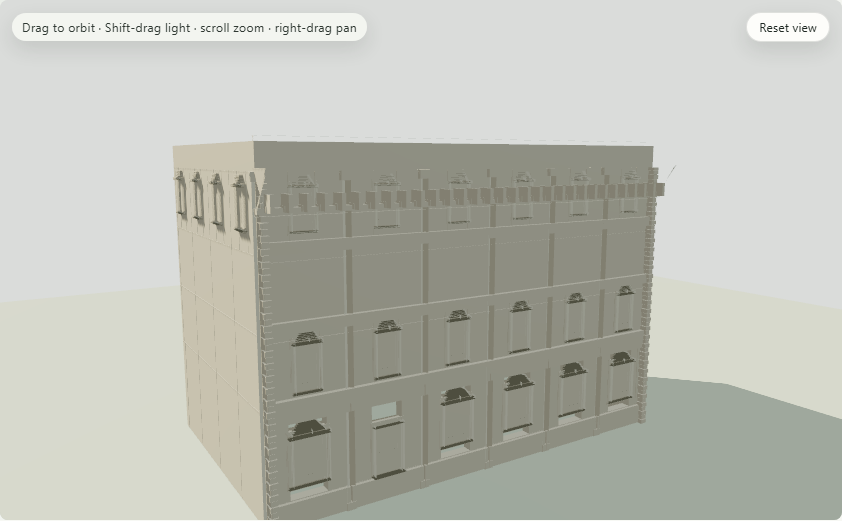
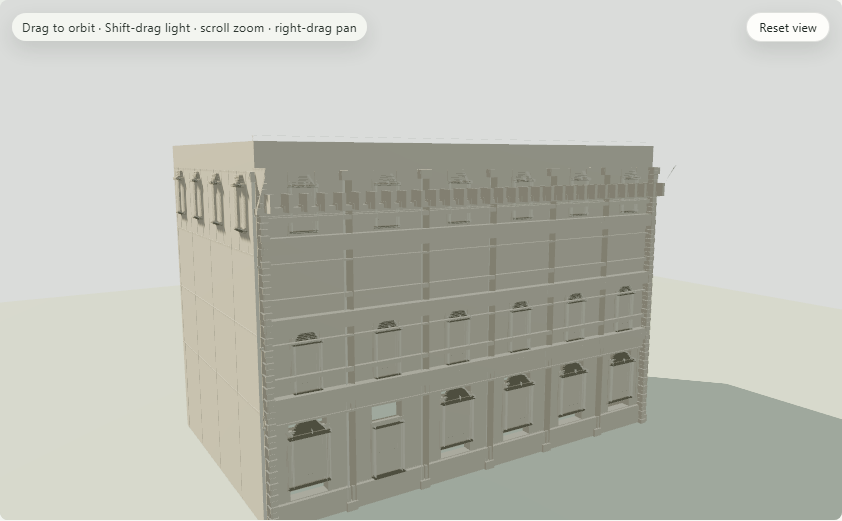
Strengthen mid-facade belts and spandrels for photo-driven V4.
Deepen belt profiles with projection scaling, heavier ground-to-body courses, drip bars, mid-body string courses, and proud spandrel panels so horizontal hierarchy reads as base, body bands, and cornice at default clay camera.

diff --git a/src/features/building-family/compiler/profiledTrimGeometry.ts b/src/features/building-family/compiler/profiledTrimGeometry.ts
@@ -135,29 +135,72 @@ export function buildCorniceProfilePrimitives(
 
 /**
  * Belt courses at each intermediate floor line from authored belt profile.
+ * V4: scaled projection + drip bar so floor lines read as horizontal shadow systems.
  */
 export function buildHorizontalBeltCoursePrimitives(
   spec: BuildingFamilySpec,
   recipe: ComponentRecipe
 ): PrimitiveGeometry[] {
-  const beltHeight = Math.max(0.22, recipe.dimensionsM.height);
+  const beltHeight = Math.max(0.32, recipe.dimensionsM.height);
   const width = recipe.dimensionsM.width;
-  const profile = densifyProfile(scaleProfileToHeight(late19cBeltProfile, beltHeight), 2);
+  const projectionScale = rangeValue(recipe, "projectionScale", 1.35);
+  const profile = densifyProfile(
+    scaleProfileProjection(scaleProfileToHeight(late19cBeltProfile, beltHeight), projectionScale),
+    3
+  );
+  const maxD = Math.max(...profile.points.map((point) => point.d));
   const primitives: PrimitiveGeometry[] = [];
 
   const frontZ = frontFacadeExteriorZM(spec);
   let floorTop = 0;
   for (let floor = 0; floor < spec.massing.floorCount - 1; floor += 1) {
     floorTop += spec.massing.floorHeightsM[floor] ?? 0;
-    const center: Vec3 = [0, floorTop - beltHeight / 2, frontZ];
+    // Ground→body belt is heavier; upper belts slightly lighter but still proud.
+    const weight = floor === 0 ? 1.15 : 1;
+    const height = beltHeight * weight;
+    const center: Vec3 = [0, floorTop - height / 2, frontZ];
+    const runProfile =
+      floor === 0
+        ? densifyProfile(
+            scaleProfileProjection(
+              scaleProfileToHeight(late19cBeltProfile, height),
+              projectionScale * 1.12
+            ),
+            3
+          )
+        : profile;
+    const runMaxD = Math.max(...runProfile.points.map((point) => point.d));
     primitives.push(
       ...horizontalMoldingFromProfile({
-        profile,
+        profile: runProfile,
         center,
-        widthM: width,
+        widthM: width + (floor === 0 ? 0.16 : 0.08),
         facadeSign: FRONT_FACADE_SIGN
       })
     );
+    // Continuous drip under the belt — sells a dark floor line in soft light.
+    primitives.push(
+      buildBoxPrimitive({
+        center: [0, center[1] - height * 0.42, frontZ - runMaxD * 0.35],
+        size: [width + 0.2, height * 0.18, Math.max(0.12, runMaxD * 0.4)]
+      })
+    );
+  }
+
+  // Mid-body string courses (between belts) on upper floors — third horizontal system.
+  floorTop = spec.massing.floorHeightsM[0] ?? 0;
+  for (let floor = 1; floor < spec.massing.floorCount; floor += 1) {
+    const floorH = spec.massing.floorHeightsM[floor] ?? 3.2;
+    const stringY = floorTop + floorH * 0.42;
+    const stringH = Math.min(0.22, floorH * 0.07);
+    const stringD = Math.max(0.14, maxD * 0.45);
+    primitives.push(
+      buildBoxPrimitive({
+        center: [0, stringY, frontZ - stringD * 0.55],
+        size: [width * 0.995, stringH, stringD]
+      })
+    );
+    floorTop += floorH;
   }
 
   return primitives;
@@ -249,15 +292,16 @@ export function buildBasePlinthPrimitives(spec: BuildingFamilySpec): PrimitiveGe
 
 /**
  * Spandrel bands between stories on the front facade — solid mass under window lines.
+ * V4: taller, more proud panels so body floors are not a flat stamp between openings.
  */
 export function buildSpandrelBandPrimitives(
   spec: BuildingFamilySpec,
   options?: { bandHeightM?: number; projectionM?: number }
 ): PrimitiveGeometry[] {
-  const bandHeight = options?.bandHeightM ?? 0.55;
-  const projection = options?.projectionM ?? 0.08;
+  const bandHeight = options?.bandHeightM ?? 0.72;
+  const projection = options?.projectionM ?? 0.16;
   const width = spec.massing.widthM;
-  const depth = 0.2 + projection;
+  const depth = 0.28 + projection;
   // Proud of the front exterior face (outward = -Z).
   const frontZ = frontFacadeExteriorZM(spec);
   const z = frontZ - depth / 2;
@@ -267,7 +311,7 @@ export function buildSpandrelBandPrimitives(
   for (let floor = 0; floor < spec.massing.floorCount - 1; floor += 1) {
     floorTop += spec.massing.floorHeightsM[floor] ?? 0;
     // Sit just above the floor line so belts and spandrels stack as separate mass.
-    const centerY = floorTop + bandHeight / 2 + 0.02;
+    const centerY = floorTop + bandHeight / 2 + 0.04;
     primitives.push(
       buildBoxPrimitive({
         center: [0, centerY, z],
@@ -276,8 +320,15 @@ export function buildSpandrelBandPrimitives(
     );
     primitives.push(
       buildBoxPrimitive({
-        center: [0, centerY - bandHeight * 0.15, z - depth * 0.12],
-        size: [width * 0.99, bandHeight * 0.35, depth * 0.45]
+        center: [0, centerY - bandHeight * 0.12, z - depth * 0.18],
+        size: [width * 0.99, bandHeight * 0.4, depth * 0.55]
+      })
+    );
+    // Upper ledge on the spandrel — second shadow edge within the body band.
+    primitives.push(
+      buildBoxPrimitive({
+        center: [0, centerY + bandHeight * 0.32, z - depth * 0.22],
+        size: [width * 0.992, bandHeight * 0.16, depth * 0.4]
       })
     );
   }

diff --git a/src/features/building-family/components/profiledTrimBuilder.ts b/src/features/building-family/components/profiledTrimBuilder.ts
@@ -14,19 +14,21 @@ export function resolveCorniceProfileRecipeId(spec: BuildingFamilySpec): string 
 }
 
 export function buildProfiledHorizontalTrimRecipe(spec: BuildingFamilySpec) {
+  // V4: taller/deeper belt so mid-facade bands read without forensic lighting.
   return makeComponentRecipe({
     id: `recipe.trim.${spec.selectedFamilies.trim}.horizontal`,
     kind: "profileSweep",
     role: "horizontalTrim",
-    dimensionsM: { width: spec.massing.widthM, height: 0.34, depth: 0.2 },
+    dimensionsM: { width: spec.massing.widthM, height: 0.48, depth: 0.36 },
     atlasSlotIds: ["trim.horizontal.primary"],
     uvBehavior: "cap-repeat-cap",
     variationScope: spec.variationPolicy.trim ?? "family",
     attachmentPlane: "facade.front",
     profileRecipeId: `profile.trim.${spec.selectedFamilies.trim}.belt-course`,
     parameterRanges: {
-      projectionM: { min: 0.1, max: 0.28 },
-      capHeightM: { min: 0.05, max: 0.12 }
+      projectionM: { min: 0.22, max: 0.42 },
+      capHeightM: { min: 0.08, max: 0.16 },
+      projectionScale: { min: 1.25, max: 1.55 }
     }
   });
 }
@@ -37,9 +39,9 @@ export function buildProfiledVerticalTrimRecipe(spec: BuildingFamilySpec) {
     kind: "profileSweep",
     role: "verticalTrim",
     dimensionsM: {
-      width: 0.42,
+      width: 0.48,
       height: typicalFloorHeight(spec.massing.floorHeightsM),
-      depth: 0.28
+      depth: 0.36
     },
     atlasSlotIds: ["trim.vertical.primary"],
     uvBehavior: "cap-repeat-cap",
@@ -47,8 +49,8 @@ export function buildProfiledVerticalTrimRecipe(spec: BuildingFamilySpec) {
     attachmentPlane: "facade.front",
     profileRecipeId: `profile.trim.${spec.selectedFamilies.trim}.shallow-pilaster`,
     parameterRanges: {
-      projectionM: { min: 0.12, max: 0.28 },
-      plinthHeightM: { min: 0.28, max: 0.52 }
+      projectionM: { min: 0.18, max: 0.36 },
+      plinthHeightM: { min: 0.32, max: 0.58 }
     }
   });
 }

diff --git a/src/features/building-family/tests/profiledTrimGeometry.test.ts b/src/features/building-family/tests/profiledTrimGeometry.test.ts
@@ -121,6 +121,20 @@ describe("profiled trim geometry", () => {
     expect(plinthMinZ).toBeLessThan(frontZ - 0.05);
   });
 
+  it("builds proud belt and spandrel bands for V4 mid-facade hierarchy", () => {
+    const spec = fixtureSpec();
+    const frontZ = -spec.massing.depthM / 2;
+    const belts = buildHorizontalBeltCoursePrimitives(spec, buildProfiledHorizontalTrimRecipe(spec));
+    const spandrels = buildSpandrelBandPrimitives(spec);
+    const beltMinZ = Math.min(...belts.map((primitive) => primitive.bounds.min[2]));
+    const spandrelMinZ = Math.min(...spandrels.map((primitive) => primitive.bounds.min[2]));
+    // Belts + drips + string courses: more than one primitive per floor break.
+    expect(belts.length).toBeGreaterThanOrEqual(spec.massing.floorCount);
+    expect(spandrels.length).toBeGreaterThanOrEqual((spec.massing.floorCount - 1) * 2);
+    expect(frontZ - beltMinZ).toBeGreaterThanOrEqual(0.22);
+    expect(frontZ - spandrelMinZ).toBeGreaterThanOrEqual(0.18);
+  });
+
   it("builds a heavy layered crown that overhangs far enough for V2 silhouette (Marx target)", () => {
     const spec = {
       ...fixtureSpec(),

diff --git a/src/features/building-family/compiler/profileLibrary.ts b/src/features/building-family/compiler/profileLibrary.ts
@@ -72,16 +72,19 @@ export const late19cRestrainedCorniceProfile: ProfileDefinition = {
   ]
 };
 
-/** Shallow belt-course section. */
+/**
+ * Belt-course section (V4: deeper projection for mid-facade shadow bands).
+ */
 export const late19cBeltProfile: ProfileDefinition = {
   id: "profile.trim.late19c.belt-course",
   label: "Late 19c belt course",
   points: [
-    { u: 0.0, d: 0.06 },
-    { u: 0.08, d: 0.1 },
-    { u: 0.16, d: 0.14 },
-    { u: 0.24, d: 0.16 },
-    { u: 0.3, d: 0.12 }
+    { u: 0.0, d: 0.1 },
+    { u: 0.08, d: 0.16 },
+    { u: 0.16, d: 0.22 },
+    { u: 0.24, d: 0.28 },
+    { u: 0.32, d: 0.32 },
+    { u: 0.4, d: 0.26 }
   ]
 };
 
@@ -90,11 +93,11 @@ export const late19cPilasterProfile: ProfileDefinition = {
   id: "profile.trim.late19c.pilaster",
   label: "Late 19c shallow pilaster",
   points: [
-    { u: 0.0, d: 0.06 },
-    { u: 0.06, d: 0.1 },
-    { u: 0.12, d: 0.16 },
-    { u: 0.18, d: 0.2 },
-    { u: 0.22, d: 0.18 }
+    { u: 0.0, d: 0.1 },
+    { u: 0.06, d: 0.16 },
+    { u: 0.12, d: 0.22 },
+    { u: 0.18, d: 0.28 },
+    { u: 0.24, d: 0.24 }
   ]
 };
 

diff --git a/docs/plans/photo-driven-visual-fidelity.md b/docs/plans/photo-driven-visual-fidelity.md
@@ -1,6 +1,6 @@
 # Photo-Driven Visual Fidelity Packets
 
-**Status:** active — V1–V3 landed 2026-07-13; next V4  
+**Status:** active — V1–V4 landed 2026-07-13; next V5  
 **Date:** 2026-07-13  
 **Parent tracks:** G1–G8 geometry quality (exited), kit-grammar roadmap, Period Ref Lab  
 **Primary refs:** `docs/ref/` + `docs/research/period-reference/` via `#room=periodRef`  
@@ -94,11 +94,11 @@ Clay: ground band visibly taller than floor above at default camera (no zoom).
 **Levers:** Deeper frame/door recipes, side/head returns, deeper glass, hoodProjection, fuller wall pockets.  
 **Exit:** Assembly depth ≥ ~0.55 m and glass inset ≥ ~0.2 m; throat reads under Shift-rake without hunting.
 
-### V4 — Horizontal body hierarchy
+### V4 — Horizontal body hierarchy — **done 2026-07-13**
 
 **Gap:** Floors exist; body still stamp-like.  
-**Levers:** Belt projection, spandrel pride, optional lintel-at-opening-head strips.  
-**Exit:** Three horizontal shadow systems: base top, mid belts, cornice.
+**Levers:** Deeper belt profile + projectionScale, ground→body heavy belt, drip bars, mid-body string courses, taller/prouder spandrels.  
+**Exit:** Three horizontal systems read at default camera: ground top / floor belts / cornice (plus mid-body strings).
 
 ### V5 — Material scale
 
@@ -132,6 +132,7 @@ Re-score Marx + Vanderbilt packets; archive captures; link from kit-grammar Phas
 | 2026-07-13 | This plan; **V1 commercial base** landed (5.6 m ground vs ~3.5 m body) |
 | 2026-07-13 | **V2 cornice crown weight** landed (deeper profile + brackets + fascia) |
 | 2026-07-13 | **V3 punched opening amplitude** landed (returns, deeper glass/pockets, hoods) |
+| 2026-07-13 | **V4 horizontal body hierarchy** landed (belts, drips, string courses, spandrels) |
 
 ---
 

diff --git a/docs/ref/comparisons/2026-07-12-first-pass/FINDINGS.md b/docs/ref/comparisons/2026-07-12-first-pass/FINDINGS.md
@@ -99,11 +99,15 @@ Stage metrics from page capture (illustrative): facade 4 objects, openings 5, tr
 **Fix:** Deeper window/door recipes, side/head returns, deeper glass, hoodProjection, fuller pockets.  
 **Exit:** depth ≥ 0.55 m, glass inset ≥ 0.2 m.
 
+### V4 — Horizontal body hierarchy — **done 2026-07-13**
+
+**Plan:** photo-driven V4  
+**Fix:** Deeper belts, ground-heavy first belt, drips, mid-body string courses, proud spandrels.  
+**Exit:** Base top / floor belts / cornice (+ mid strings) read as horizontal systems.
+
 ## Next actions
 
-1. ~~P0–P1 placement~~ **landed**  
-2. ~~V1 commercial base~~ **landed**  
-3. ~~V2 cornice crown~~ **landed**  
-4. ~~V3 opening amplitude~~ **landed**  
-5. **V4** horizontal body hierarchy (next)  
+1. ~~P0–P1 · V1–V4~~ **landed**  
+2. **V5** material scale (textured) — next  
+3. **V6** evidence close-out  
 

diff --git a/docs/ref/README.md b/docs/ref/README.md
@@ -50,8 +50,8 @@ Clay vs photo scores and ranked geometry follow-ups:
 - Capture script: `node scripts/capture-period-compare.mjs`
 
 **Photo-driven plan:** `docs/plans/photo-driven-visual-fidelity.md` (packets V1–V6).  
-**Landed:** P0 · P1 · V1 base · V2 cornice · **V3 opening amplitude**.  
-**Next:** V4 horizontal body hierarchy.
+**Landed:** P0 · P1 · V1–**V4** (base, cornice, openings, body belts).  
+**Next:** V5 material scale (textured).
 
 ## Related
 
